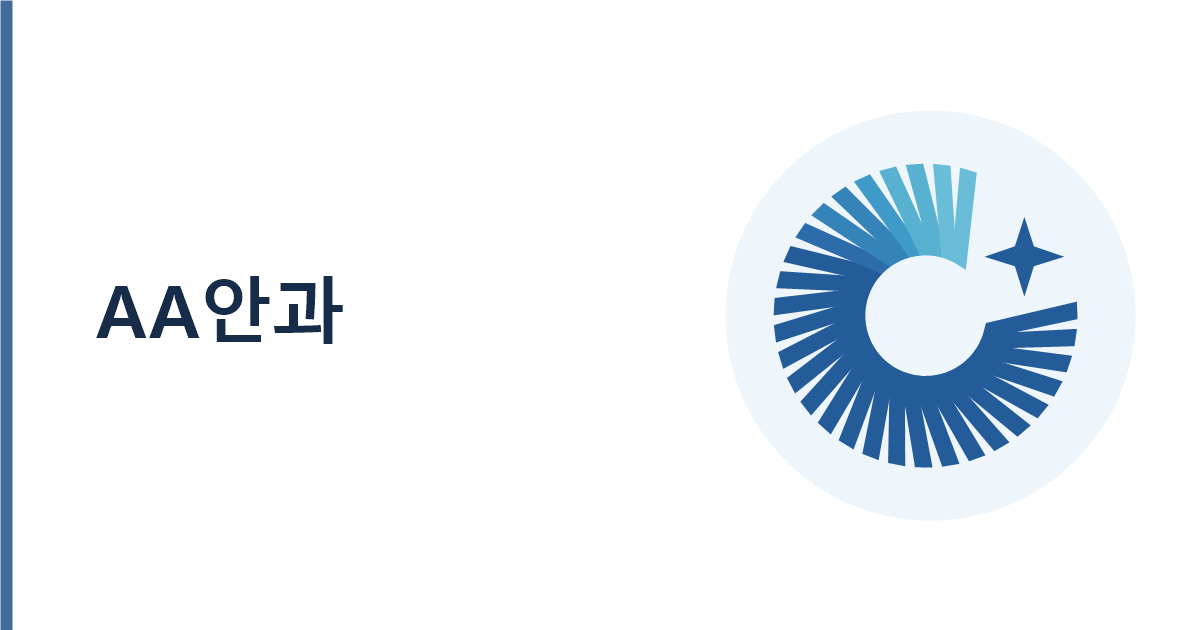
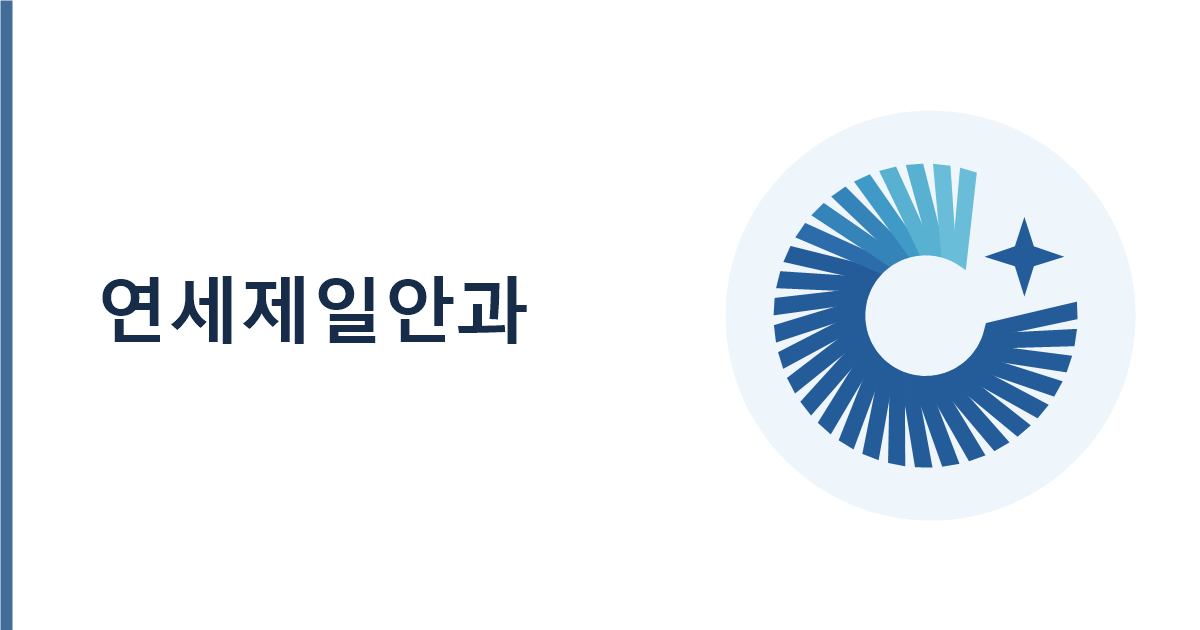
sticky

Changed region(s): [[0.0617, 0.4222, 0.4317, 0.5429]]

diff --git a/js/layout.js b/js/layout.js
@@ -3,7 +3,7 @@
 (function () {
   'use strict';
   var sections = {
-  "header": "<header class=\"site-header\">\n  <div class=\"container header-inner\">\n    <a class=\"brand\" href=\"index.html\" aria-label=\"연세제일안과 홈\"><img class=\"brand-logo\" src=\"assets/logo-jeileye.svg?v=20261102-yonsei1\" width=\"561\" height=\"98\" alt=\"연세제일안과\"></a>\n    <div class=\"header-actions\"><a class=\"header-auth-control\" href=\"login.html\" data-auth-signed-out hidden>로그인</a><button class=\"header-auth-control\" type=\"button\" data-auth-signed-in data-auth-logout hidden>로그아웃</button><div class=\"language-picker\" data-language-picker>\n  <button class=\"language-toggle\" type=\"button\" data-language-toggle aria-label=\"언어 선택\" aria-expanded=\"false\" aria-controls=\"language-panel\"><img class=\"selected-language-icon\" data-language-icon src=\"assets/flags/kr.svg\" width=\"26\" height=\"26\" alt=\"\"></button>\n  <div class=\"language-panel\" id=\"language-panel\" data-language-panel hidden>\n    <div class=\"language-options notranslate\" translate=\"no\">\n      <a data-language=\"ko\" role=\"link\" tabindex=\"0\" aria-label=\"한국어로 보기\"><img src=\"assets/flags/kr.svg\" width=\"48\" height=\"48\" alt=\"\"><span lang=\"ko\">한국어</span></a>\n      <a data-language=\"zh-CN\" role=\"link\" tabindex=\"0\" aria-label=\"중국어로 번역\"><img src=\"assets/flags/cn.svg\" width=\"48\" height=\"48\" alt=\"\"><span lang=\"zh-CN\">中文</span></a>\n      <a data-language=\"en\" role=\"link\" tabindex=\"0\" aria-label=\"영어로 번역\"><img src=\"assets/flags/us.svg\" width=\"48\" height=\"48\" alt=\"\"><span lang=\"en\">English</span></a>\n    </div>\n    <p class=\"language-notice visually-hidden\" data-language-notice>번역은 웹사이트 배포 후 이용할 수 있습니다.</p>\n  </div>\n</div><button class=\"menu-trigger\" type=\"button\" data-menu-open aria-label=\"카테고리 메뉴 열기\" aria-controls=\"category-drawer\" aria-expanded=\"false\" aria-haspopup=\"dialog\"><svg viewBox=\"0 0 24 24\" width=\"22\" height=\"22\" fill=\"none\" stroke=\"currentColor\" stroke-width=\"1.8\" stroke-linecap=\"round\" aria-hidden=\"true\"><path d=\"M4 6h16M4 12h16M4 18h16\"/></svg></button></div>\n  </div>\n</header>",
+  "header": "<header class=\"site-header\">\n  <div class=\"container header-inner\">\n    <a class=\"brand\" href=\"index.html\" aria-label=\"연세제일안과 홈\"><img class=\"brand-logo\" src=\"assets/logo-jeileye.svg?v=20261102-yonsei1\" width=\"561\" height=\"98\" alt=\"연세제일안과\"></a>\n    <div class=\"header-actions\"><a class=\"header-auth-control\" href=\"login.html\" data-auth-signed-out hidden>로그인</a><button class=\"header-auth-control\" type=\"button\" data-auth-signed-in data-auth-logout hidden>로그아웃</button><div class=\"language-picker\" data-language-picker>\n  <button class=\"language-toggle\" type=\"button\" data-language-toggle aria-label=\"언어 선택\" aria-expanded=\"false\" aria-controls=\"language-panel\"><img class=\"selected-language-icon\" data-language-icon src=\"assets/flags/kr.svg?v=20261102-taegeuk1\" width=\"26\" height=\"26\" alt=\"\"></button>\n  <div class=\"language-panel\" id=\"language-panel\" data-language-panel hidden>\n    <div class=\"language-options notranslate\" translate=\"no\">\n      <a data-language=\"ko\" role=\"link\" tabindex=\"0\" aria-label=\"한국어로 보기\"><img src=\"assets/flags/kr.svg?v=20261102-taegeuk1\" width=\"48\" height=\"48\" alt=\"\"><span lang=\"ko\">한국어</span></a>\n      <a data-language=\"zh-CN\" role=\"link\" tabindex=\"0\" aria-label=\"중국어로 번역\"><img src=\"assets/flags/cn.svg\" width=\"48\" height=\"48\" alt=\"\"><span lang=\"zh-CN\">中文</span></a>\n      <a data-language=\"en\" role=\"link\" tabindex=\"0\" aria-label=\"영어로 번역\"><img src=\"assets/flags/us.svg\" width=\"48\" height=\"48\" alt=\"\"><span lang=\"en\">English</span></a>\n    </div>\n    <p class=\"language-notice visually-hidden\" data-language-notice>번역은 웹사이트 배포 후 이용할 수 있습니다.</p>\n  </div>\n</div><button class=\"menu-trigger\" type=\"button\" data-menu-open aria-label=\"카테고리 메뉴 열기\" aria-controls=\"category-drawer\" aria-expanded=\"false\" aria-haspopup=\"dialog\"><svg viewBox=\"0 0 24 24\" width=\"22\" height=\"22\" fill=\"none\" stroke=\"currentColor\" stroke-width=\"1.8\" stroke-linecap=\"round\" aria-hidden=\"true\"><path d=\"M4 6h16M4 12h16M4 18h16\"/></svg></button></div>\n  </div>\n</header>",
   "drawer": "<dialog class=\"menu-drawer\" id=\"category-drawer\" data-menu-drawer aria-labelledby=\"drawer-title\">\n  <div class=\"drawer-header\"><h2 class=\"drawer-category-label\" id=\"drawer-title\">CATEGORY</h2><button class=\"drawer-close\" type=\"button\" data-menu-close aria-label=\"메뉴 닫기\" autofocus>×</button></div>\n  <nav class=\"drawer-nav\" aria-label=\"전체 카테고리\">\n    <div class=\"drawer-account-row\"><a href=\"mypage.html\"><span class=\"drawer-number\">01</span><span>마이페이지</span></a><a class=\"drawer-admin-button notranslate\" translate=\"no\" href=\"admin.html\" data-admin-only hidden aria-label=\"관리자 페이지로 이동\">admin</a></div>\n    <a href=\"vision.html\"><span class=\"drawer-number\">02</span><span>시력교정</span></a>\n    <a href=\"cataract.html\"><span class=\"drawer-number\">03</span><span>백내장</span></a>\n    <a href=\"glaucoma.html\"><span class=\"drawer-number\">04</span><span>녹내장</span></a>\n    <a href=\"retina.html\"><span class=\"drawer-number\">05</span><span>망막</span></a>\n    <a href=\"myopia.html\"><span class=\"drawer-number\">06</span><span>소아근시</span></a>\n    <a href=\"about.html\"><span class=\"drawer-number\">07</span><span>병원소개</span></a>\n  </nav>\n  <p class=\"drawer-caption\">최선의 시력으로 만나는 더 선명한 세상 연세제일안과</p>\n</dialog>",
   "footer": "<footer class=\"site-footer\">\n  <div class=\"container footer-inner\"><span class=\"footer-brand\">연세제일안과</span><p>최선의 시력으로 만나는 더 선명한 세상 · 진료 전후 정보 안내</p></div>\n  <div class=\"container theme-settings\"><button class=\"theme-toggle\" type=\"button\" data-theme-toggle aria-pressed=\"false\"><svg viewBox=\"0 0 24 24\" fill=\"none\" stroke=\"currentColor\" stroke-width=\"1.7\" aria-hidden=\"true\"><path d=\"M20 14a8 8 0 0 1-10-10 8.5 8.5 0 1 0 10 10Z\"/></svg><span data-theme-label>다크모드로 변경</span></button><button class=\"theme-toggle share-button\" type=\"button\" data-share-home><svg viewBox=\"0 0 24 24\" fill=\"none\" stroke=\"currentColor\" stroke-width=\"1.7\" aria-hidden=\"true\"><circle cx=\"18\" cy=\"5\" r=\"3\"/><circle cx=\"6\" cy=\"12\" r=\"3\"/><circle cx=\"18\" cy=\"19\" r=\"3\"/><path d=\"m8.6 10.5 6.8-4m-6.8 7 6.8 4\"/></svg><span>링크 공유</span></button><p class=\"share-status\" data-share-status role=\"status\" aria-live=\"polite\" hidden></p><input class=\"share-url\" data-share-url type=\"url\" readonly aria-label=\"공유할 메인 페이지 링크\" hidden></div>\n</footer>"
 };

diff --git a/js/language.js b/js/language.js
@@ -37,7 +37,7 @@
     ['우리 아이 눈 건강 안내', 'Eye care for your child', '儿童眼健康指南'],
     ['진료시간 · 원장 · 장비 안내', 'Hours · Doctors · Equipment', '门诊时间 · 医生 · 设备'],
     ['질환의 기본 정보부터 외래 안내, 수술 전후 정보까지 확인할 수 있습니다.', 'Explore condition information, outpatient guidance, and care before and after surgery.', '了解疾病基础知识、门诊指南以及手术前后信息。'],
-    ['원장별 일정표', 'Doctor schedule', '医生排班'], ['샘플 일정', 'Sample schedule', '示例排班'],
+    ['진료일정(원장별)', 'Doctor schedule', '医生排班'], ['샘플 일정', 'Sample schedule', '示例排班'],
     ['날짜 아래의 색상 점으로 원장별 진료 일정을 확인하세요. 원장명과 근무 일정은 화면 확인용 예시입니다.', 'Colored dots show each doctor’s schedule. Doctor names and schedules are examples for this preview.', '日期下方的彩色圆点表示各位医生的排班。医生姓名和排班均为预览示例。'],
     ['일정 달력', 'Schedule calendar', '排班日历'], ['원장 선택', 'Select doctor', '选择医生'],
     ['오늘', 'Today', '今天'],
@@ -268,7 +268,7 @@
       'zh-CN': ['cn', '选择语言：中文']
     }[current];
     if (languageIcon) {
-      var iconPath = 'assets/flags/' + languageInfo[0] + '.svg';
+      var iconPath = 'assets/flags/' + languageInfo[0] + '.svg' + (languageInfo[0] === 'kr' ? '?v=20261102-taegeuk1' : '');
       if (languageIcon.getAttribute('src') !== iconPath) languageIcon.setAttribute('src', iconPath);
     }
     if (languageButton && languageButton.getAttribute('aria-label') !== languageInfo[1]) {

diff --git a/js/data.js b/js/data.js
@@ -109,7 +109,7 @@ window.homeData = {
   ],
   notices: [
     { id: 'notice-1', date: '2026-10-29', title: '연세제일안과 홈페이지 안내 준비 중 (샘플)', content: '홈페이지의 공지사항 영역을 확인하기 위한 샘플 게시글입니다. 실제 병원 공지는 확인 후 이곳에 게시됩니다.' },
-    { id: 'notice-2', date: '2026-10-27', title: '원장별 일정표 이용 안내 (샘플)', content: '달력에서 날짜를 선택하면 원장별 일정을 확인할 수 있습니다. 현재 표시된 원장명과 일정은 모두 화면 확인용 샘플입니다.' },
+    { id: 'notice-2', date: '2026-10-27', title: '진료일정(원장별) 이용 안내 (샘플)', content: '달력에서 날짜를 선택하면 원장별 일정을 확인할 수 있습니다. 현재 표시된 원장명과 일정은 모두 화면 확인용 샘플입니다.' },
     { id: 'notice-3', date: '2026-10-23', title: '진료 전후 정보 안내 (샘플)', content: '각 카테고리에서 안내 화면을 확인할 수 있습니다. 실제 환자 안내 내용은 연세제일안과 검토 후 반영됩니다.' }
   ]
 };

diff --git a/index.html b/index.html
@@ -67,7 +67,7 @@
     <p class="guide-note"><svg viewBox="0 0 24 24" fill="none" stroke="currentColor" stroke-width="1.7" aria-hidden="true"><circle cx="12" cy="12" r="9"/><path d="M12 11v6m0-10v1"/></svg><span>질환의 기본 정보부터 외래 안내, 수술 전후 정보까지 확인할 수 있습니다.</span></p>
   </section>
   <section class="home-section" aria-labelledby="schedule-title" data-calendar>
-    <div class="home-section-heading"><div><h2 id="schedule-title">원장별 일정표</h2></div><span class="sample-label">샘플 일정</span></div>
+    <div class="home-section-heading"><div><h2 id="schedule-title">진료일정(원장별)</h2></div><span class="sample-label">샘플 일정</span></div>
     <p class="section-description">날짜 아래의 색상 점으로 원장별 진료 일정을 확인하세요. 원장명과 근무 일정은 화면 확인용 예시입니다.</p>
     <div class="schedule-layout">
       <div class="calendar-panel">

diff --git a/css/theme.css b/css/theme.css
@@ -255,3 +255,12 @@ html[data-theme='dark'] .work-period.work-closed { color: #ffbbc1; background: #
   .site-header .header-actions { gap: 8px; }
   .brand-logo { width: clamp(128px, 40vw, 200px); }
 }
+/* 상단 배너 높이를 20% 줄이고 조작 버튼을 오른쪽에 모읍니다. */
+.site-header .header-inner { min-height: 70.4px; }
+.site-header .header-actions { gap: 2px; margin-right: -10px; flex-shrink: 0; }
+.selected-language-icon[src*="flags/kr.svg"] { width: 30px; height: 20px; border-radius: 2px; object-fit: contain; }
+.language-options img[src*="flags/kr.svg"] { border-radius: 2px; object-fit: contain; }
+@media (max-width: 600px) {
+  .site-header .header-inner { min-height: 59.2px; }
+  .site-header .header-actions { gap: 0; margin-right: -8px; }
+}

diff --git a/PROJECT_SPEC.md b/PROJECT_SPEC.md
@@ -389,8 +389,8 @@ window.diseaseData = {
 
 사용자의 후속 요청에 따라 다음 범위를 추가한다.
 
-- 홈의 6개 카드 섹션 아래에 `원장별 일정표`, 그 아래에 `공지사항`을 순서대로 배치한다.
-- 원장별 일정표는 월간 달력으로 제공한다. 이전·다음 달 이동, 전체/개별 원장 선택, 날짜 선택에 따른 일정 목록 표시를 지원한다.
+- 홈의 6개 카드 섹션 아래에 `진료일정(원장별)`, 그 아래에 `공지사항`을 순서대로 배치한다.
+- 진료일정(원장별)는 월간 달력으로 제공한다. 이전·다음 달 이동, 전체/개별 원장 선택, 날짜 선택에 따른 일정 목록 표시를 지원한다.
 - 원장별 일정 데이터는 일정 ID, 원장 ID, 날짜(`YYYY-MM-DD`), 제목, 시간 안내로 구성한다. 확인되지 않은 원장명·진료시간을 실제 정보처럼 표시하지 않는다.
 - 초기에는 샘플 원장 A/B와 샘플 일정을 표시하고 실제 진료 정보가 아님을 명시한다. 일정이 없는 날짜는 `등록된 일정이 없습니다. 일정 미등록은 휴진을 의미하지 않습니다.`로 안내한다.
 - 초기 달력은 한국 시간 기준 현재 연월과 날짜를 사용한다. 샘플 일정은 2026년 10월·11월에 등록한다.
@@ -627,9 +627,9 @@ window.diseaseData = {
 - 참고: https://docs.cloud.google.com/translate/docs/setup
 - 참고: https://docs.cloud.google.com/translate/docs/authentication
 
-## 25. 원장별 일정표 내 진료시간 안내
+## 25. 진료일정(원장별) 내 진료시간 안내
 
-- 사용자 제공 이미지의 진료시간을 홈 원장별 일정표 섹션 안, 달력 위에 별도 안내 박스로 표시한다.
+- 사용자 제공 이미지의 진료시간을 홈 진료일정(원장별) 섹션 안, 달력 위에 별도 안내 박스로 표시한다.
 - 월~금요일: 오전 8:30 ~ 오후 7:00
 - 토요일: 오전 8:30 ~ 오후 5:00
 - 공휴일: 오전 8:30 ~ 오후 1:00. `오전진료` 배지를 함께 표시한다.
@@ -639,7 +639,7 @@ window.diseaseData = {
 
 ## 26. 원장명·달력 문자 표시 및 진료시간 위치 조정
 
-- 진료시간 박스를 원장별 일정표 섹션의 가장 아래, 선택한 날짜의 일정 박스 다음으로 이동한다. 진료시간 내용은 유지한다.
+- 진료시간 박스를 진료일정(원장별) 섹션의 가장 아래, 선택한 날짜의 일정 박스 다음으로 이동한다. 진료시간 내용은 유지한다.
 - 기존 1~4번 원장 이름을 각각 `AAA원장`, `BBB원장`, `CCC원장`, `DDD원장`으로 변경한다. 원장 필터·범례·날짜 상세 및 마이페이지 샘플 담당의 표기를 함께 맞춘다.
 - 달력 날짜 아래의 색상 점은 각 원장의 색상을 유지한 `A`, `B`, `C`, `D` 문자로 교체한다. 범례에도 같은 문자를 표시한다.
 - 종일은 실선 테두리, 오전만 근무는 점선 테두리의 문자 표기로 구분한다. 기존 요일별 진료 및 오전 근무 규칙과 상세 안내는 유지한다.
